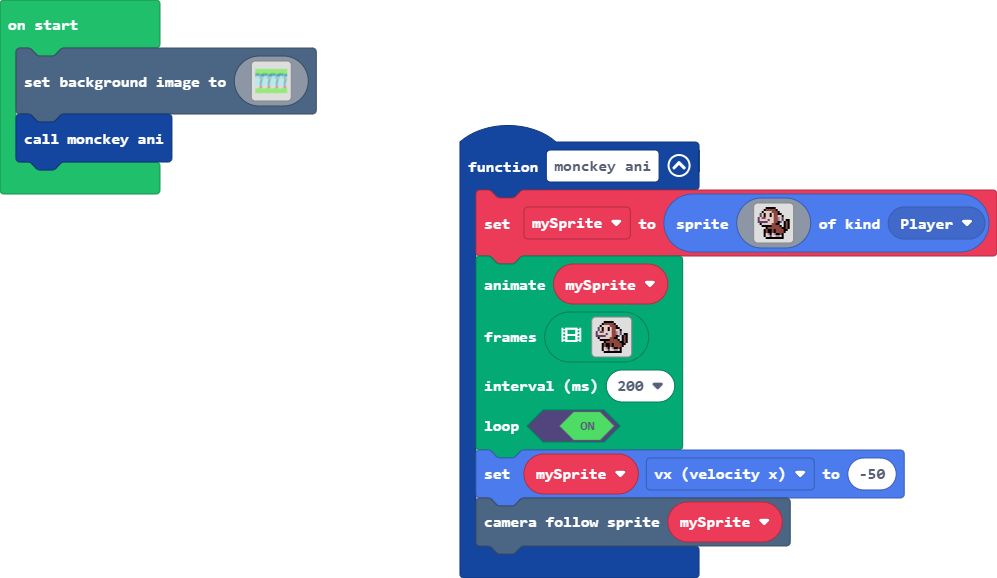
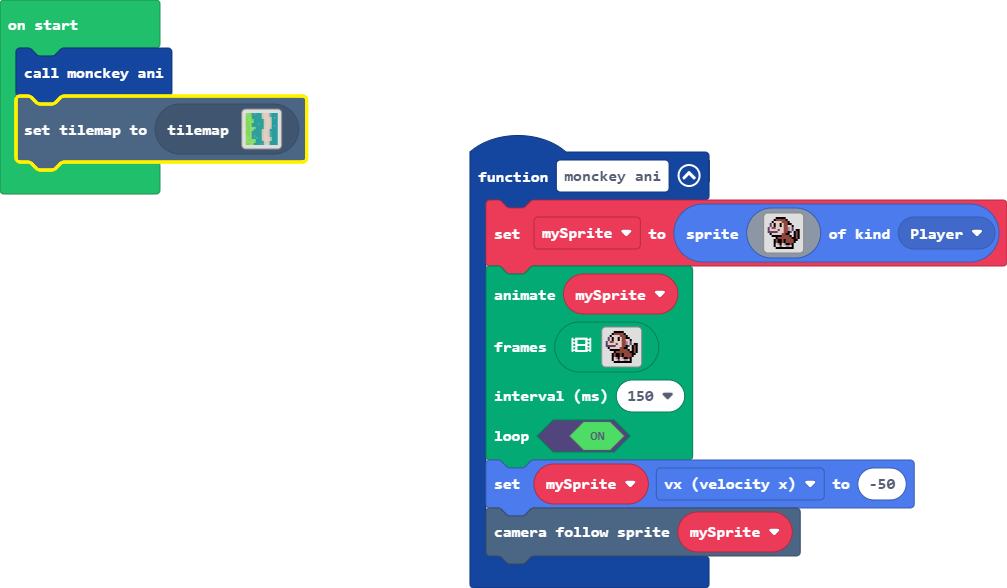
Update main.blocks, main.ts, tilemap.g.jres, tilemap.g.ts

Changed region(s): [[0.4353, 0.218, 1.0, 1.0], [0.0, 0.0311, 0.342, 0.3426]]

diff --git a/tilemap.g.ts b/tilemap.g.ts
@@ -3,6 +3,50 @@ namespace myTiles {
     //% fixedInstance jres blockIdentity=images._tile
     export const transparency16 = image.ofBuffer(hex``);
 
+    helpers._registerFactory("tilemap", function(name: string) {
+        switch(helpers.stringTrim(name)) {
+            case "level1":
+            case "level1":return tiles.createTilemap(hex`1000100000000000000000000000000000000000000000000000000000000000000000000000000000000000000000000000000000000000000000000000000000000000000000000000000000000000000000000000000000000000000000000000000000000000000000000000000000000000000000000000000000000000000000000000000000000000000000000000000000000000000000000000000000000000000000000000000000000000000000000000000000000000000000000000000000000000000000000000000000000000000000000000000000000000000000000000000000000000000000000000000000000000000000000000000000000000`, img`
+. . . . . . . . . . . . . . . . 
+. . . . . . . . . . . . . . . . 
+. . . . . . . . . . . . . . . . 
+. . . . . . . . . . . . . . . . 
+. . . . . . . . . . . . . . . . 
+. . . . . . . . . . . . . . . . 
+. . . . . . . . . . . . . . . . 
+. . . . . . . . . . . . . . . . 
+. . . . . . . . . . . . . . . . 
+. . . . . . . . . . . . . . . . 
+. . . . . . . . . . . . . . . . 
+. . . . . . . . . . . . . . . . 
+. . . . . . . . . . . . . . . . 
+. . . . . . . . . . . . . . . . 
+. . . . . . . . . . . . . . . . 
+. . . . . . . . . . . . . . . . 
+`, [myTiles.transparency16], TileScale.Sixteen);
+            case "level2":
[1 lines of base64/hex data omitted]
+. . . . . . . . . . . . . . . . 
+. . . . . . . . . . . . . . . . 
+. . . . . . . . . . . . . . . . 
+. . . . . . . . . . . . . . . . 
+. . . . . . . . . . . . . . . . 
+. . . . . . . . . . . . . . . . 
+. . . . . . . . . . . . . . . . 
+. . . . . . . . . . . . . . . . 
+. . . . . . . . . . . . . . . . 
+. . . . . . . . . . . . . . . . 
+. . . . . . . . . . . . . . . . 
+. . . . . . . . . . . . . . . . 
+. . . . . . . . . . . . . . . . 
+. . . . . . . . . . . . . . . . 
+. . . . . . . . . . . . . . . . 
+. . . . . . . . . . . . . . . . 
+`, [myTiles.transparency16,sprites.castle.tileGrass2,sprites.castle.tileDarkGrass1,sprites.castle.tilePath4,sprites.castle.tilePath7,sprites.castle.tilePath5,sprites.castle.tilePath6,sprites.castle.tilePath9,sprites.castle.tilePath3,sprites.castle.tilePath1,sprites.castle.tileDarkGrass2,sprites.castle.tileDarkGrass3,sprites.castle.tileGrass1], TileScale.Sixteen);
+        }
+        return null;
+    })
+
     helpers._registerFactory("tile", function(name: string) {
         switch(helpers.stringTrim(name)) {
             case "transparency16":return transparency16;

diff --git a/main.ts b/main.ts
@@ -105,7 +105,7 @@ function monckey_ani () {
         . f d d f d d f d d b e f f f f 
         . . f f f f f f f f f f f f f . 
         `],
-    200,
+    150,
     true
     )
     mySprite.vx = -50
@@ -235,3 +235,4 @@ scene.setBackgroundImage(img`
     7777777777777777777777777777777777777777777777777777777777777777777777777777777777777777777777777777777777777777777777777777777777777777777777777777777777777777
     `)
 monckey_ani()
+tiles.setCurrentTilemap(tilemap`level2`)
